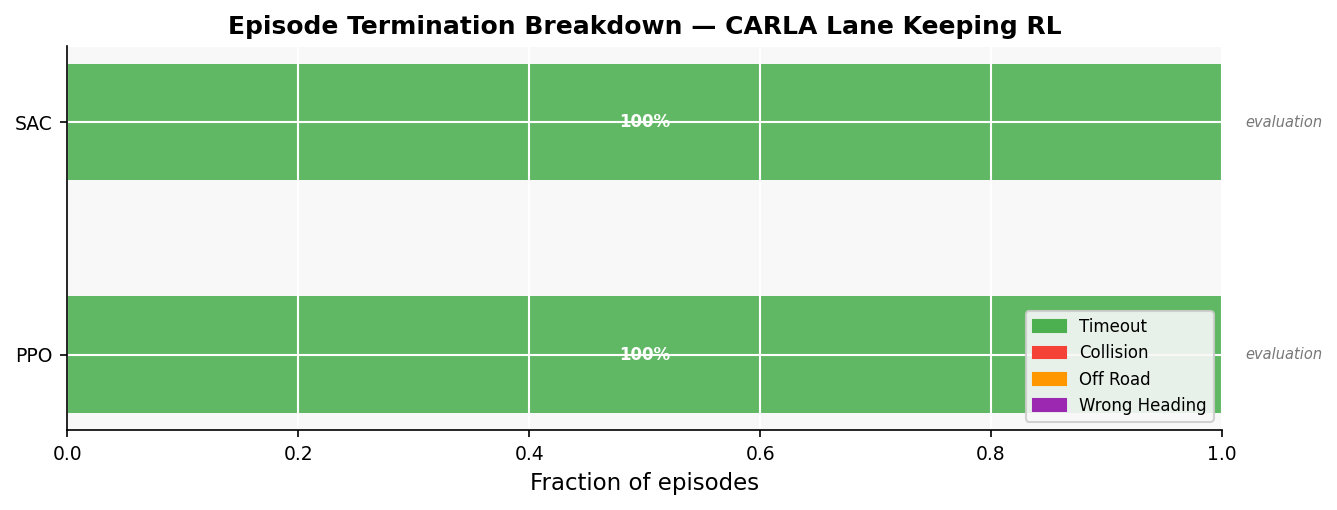
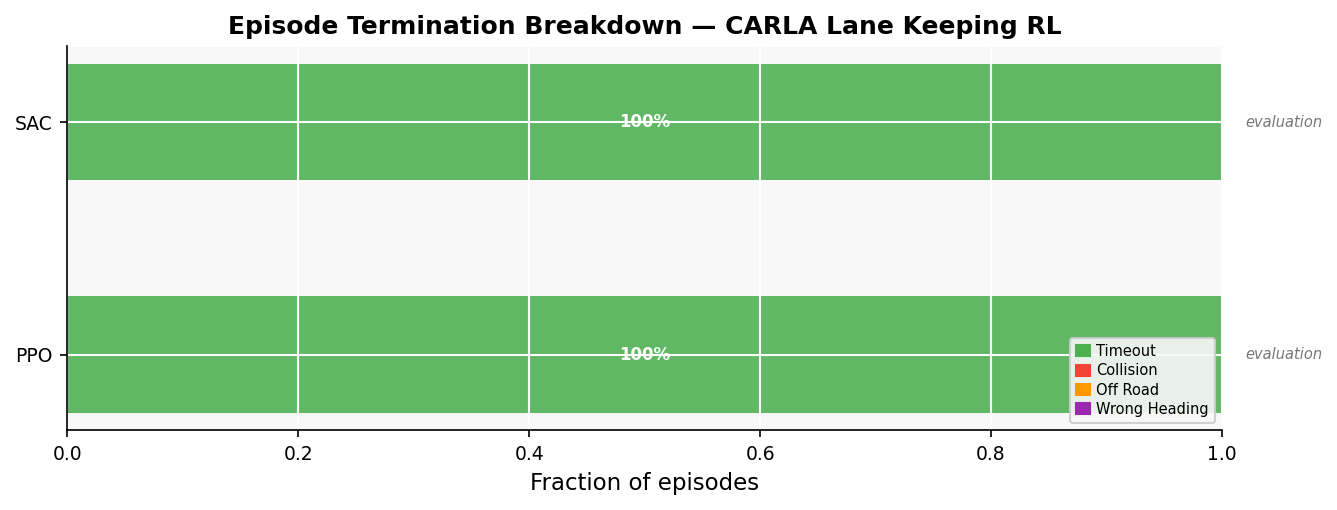
Reduce legend box size in termination breakdown plot

Changed region(s): [[0.7666, 0.5882, 0.92, 0.8529]]

diff --git a/scripts/plot_metrics.py b/scripts/plot_metrics.py
@@ -497,7 +497,9 @@ def plot_termination_breakdown(outdir, window=20):
         mpatches.Patch(color=reason_colors[r], label=r.replace("_", " ").title())
         for r in reason_order
     ]
-    ax.legend(handles=patches, loc="lower right", fontsize=8)
+    ax.legend(handles=patches, loc="lower right", fontsize=7,
+              handlelength=1.0, handleheight=0.8,
+              borderpad=0.4, labelspacing=0.3, handletextpad=0.4)
 
     # Source annotation per algorithm
     for y, algo in zip(y_positions, algos):
